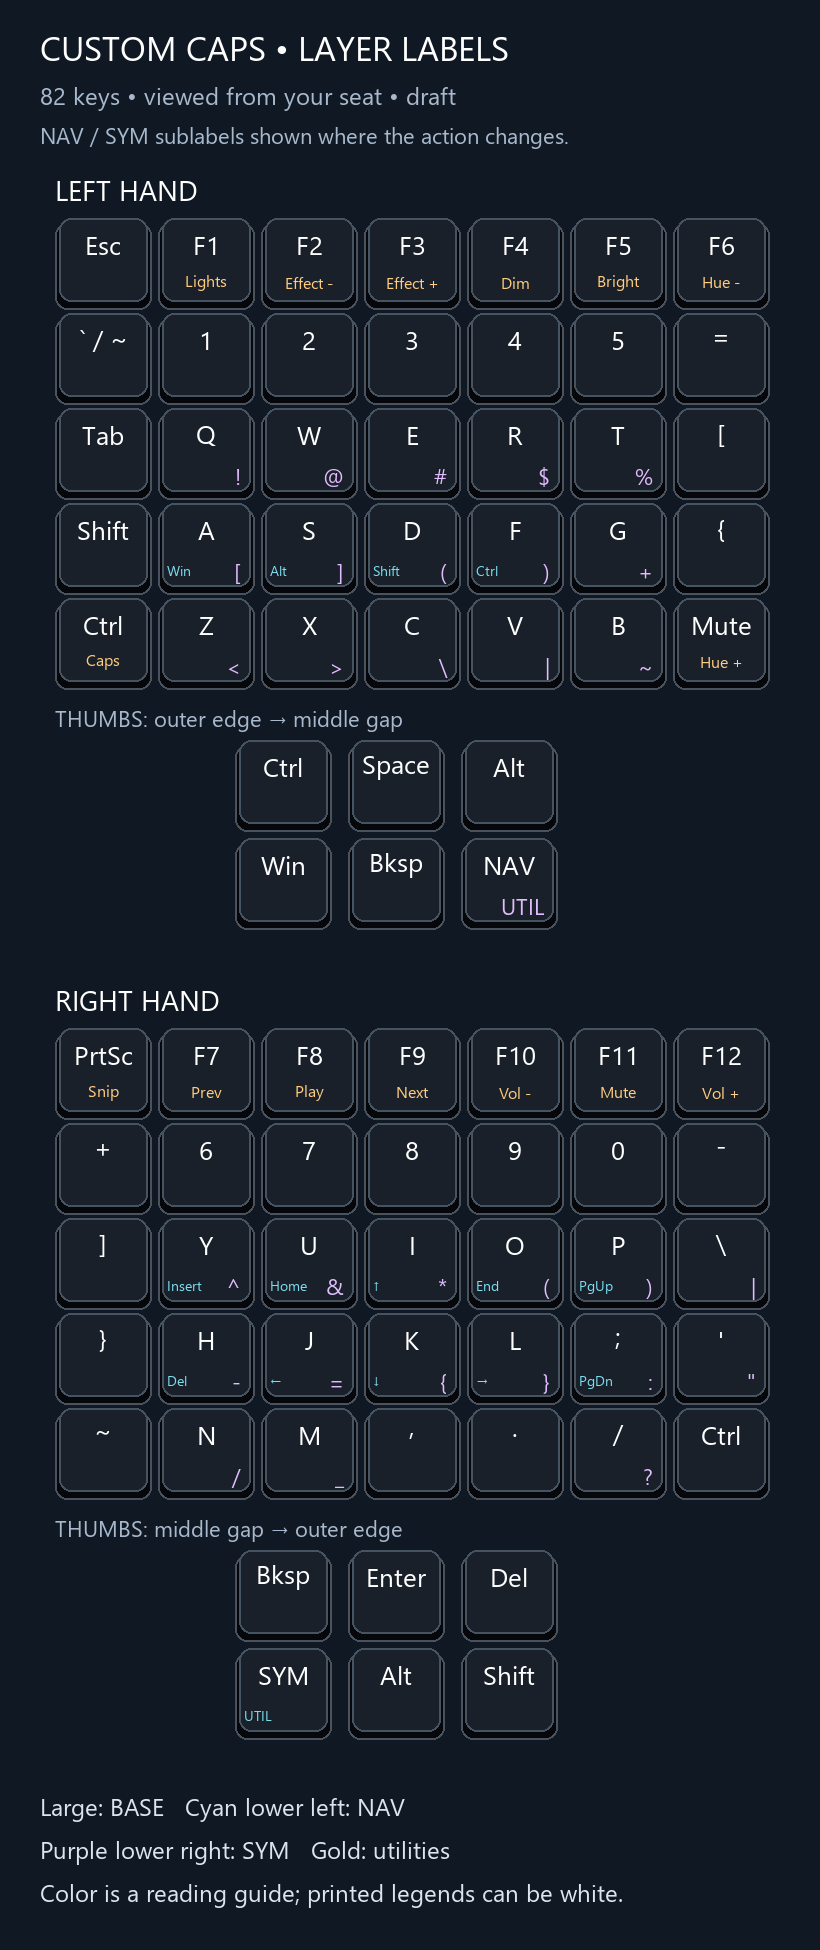
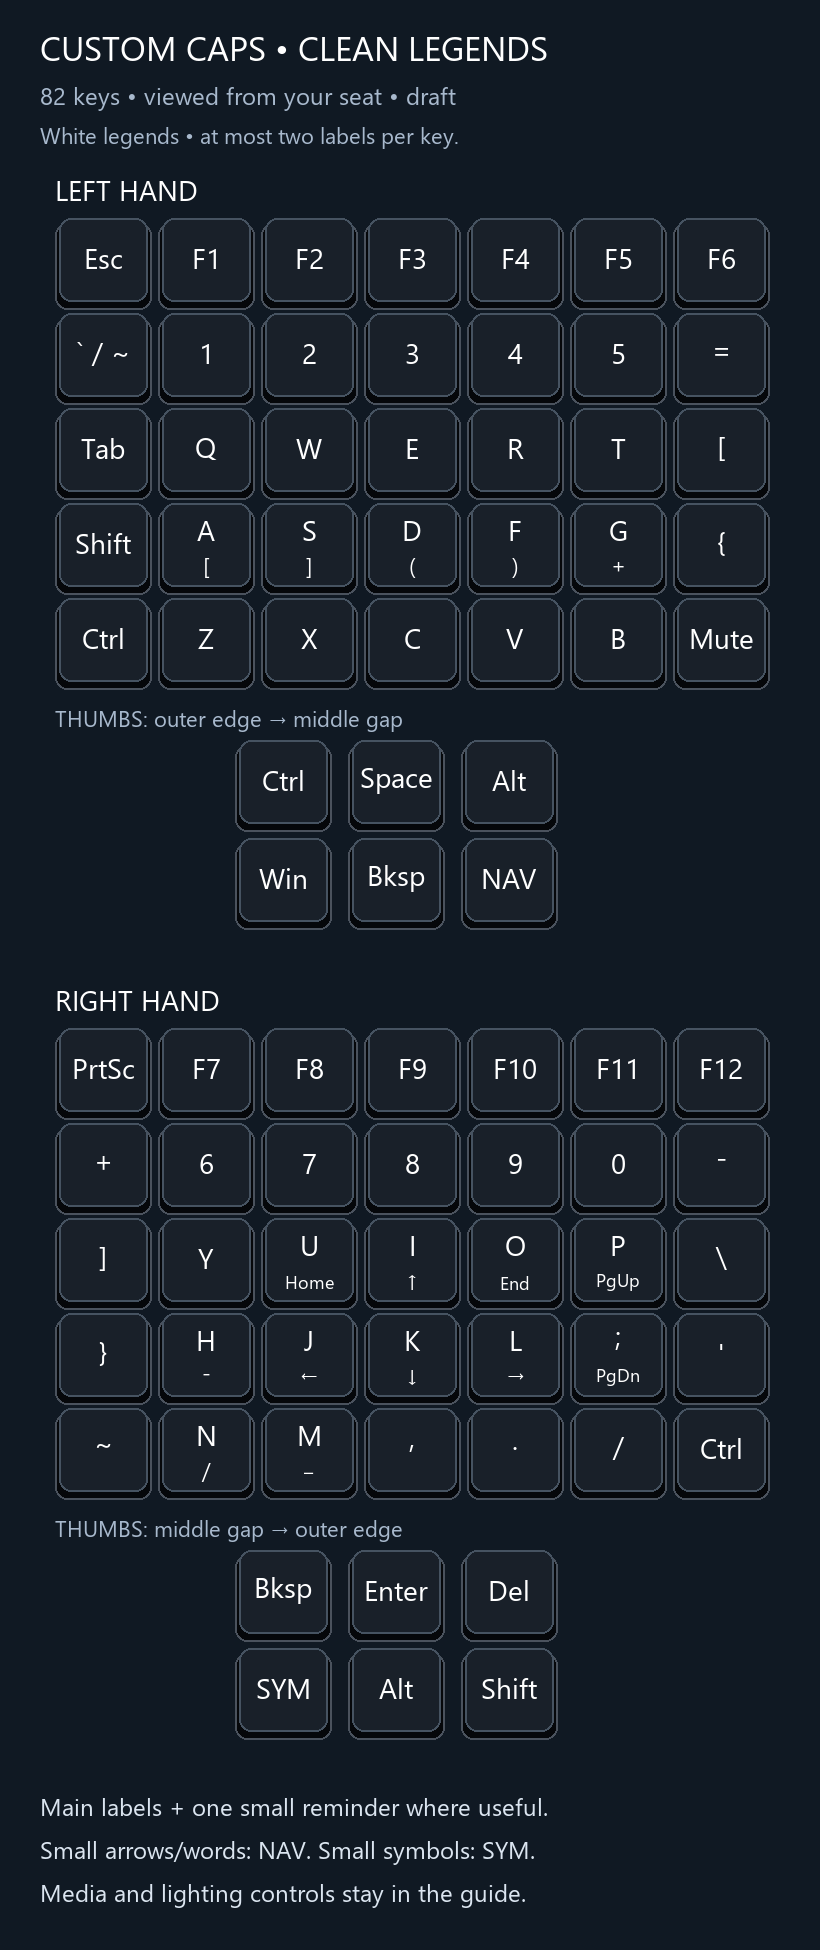
Use Normal NAV SYM only and simplify printed legends

diff --git a/README.md b/README.md
@@ -8,12 +8,31 @@ The October 22, 2026 research revision balances programming comfort, familiar QW
 
 - The left thumb cluster's top row is **Ctrl / Space / Alt**, from the outer edge toward the middle gap. All three are ordinary dedicated keys, as requested; simultaneous use is not required. Exactly two base Shifts remain: beside A and on the right thumb. Additional Ctrl keys are beside Z and on the right pinky. Win stays on a dedicated left thumb key.
 - WASD, modifiers, and Space are immediate ordinary keys. There are no mod-taps, layer-taps, sticky modifiers, tap dances, or active letter combos. Normal Ctrl+Z/X/C/V/S/F shortcuts work on the base layer; duplicate NAV macros have been removed.
-- [NAV](layouts/vial/layered-draft/nav.png): hold the left NAV thumb key. I/J/K/L are Up/Left/Down/Right; U/O are Home/End. While NAV is held, A/S/D/F become plain Win/Alt/Shift/Ctrl. For example, NAV+F+J is Ctrl+Left, and adding D selects the previous word. Thumb Backspace/Delete retain their normal functions; adding Ctrl deletes words. These layer modifiers have no tap/hold timing and do not change base letters.
+- [NAV](layouts/vial/layered-draft/nav.png): hold the left NAV thumb key. I/J/K/L are Up/Left/Down/Right; U/O are Home/End. NAV also provides media on F7–F12, lighting on F1–F3, Caps Lock on Esc, and region screenshot on PrtSc. There is no separate UTIL layer or two-thumb activation. While NAV is held, A/S/D/F become plain Win/Alt/Shift/Ctrl. For example, NAV+F+J is Ctrl+Left, and adding D selects the previous word. These extra modifier positions are optional to learn; ordinary base modifiers remain available. Thumb Backspace/Delete retain their normal functions; adding Ctrl deletes words. These layer modifiers have no tap/hold timing and do not change base letters.
 - [SYM](layouts/vial/layered-draft/sym.png): hold the right SYM thumb key. QWERT and YUIOP retain `! @ # $ %` and `^ & * ( )` in number-row order. Home-row pairs are A/S = `[]`, D/F = `()`, K/L = `{}`. J is `=`, G is `+`, H is `-`, and M is `_`. Comma/period keep their base positions. Backtick stays beside 1; the normal US Shift symbols remain available.
-- [Utilities](layouts/vial/layered-draft/util.png): hold both thumb keys in either order. F1–F6 control lighting; F7–F12 control media and volume. Mute becomes Hue+, PrtSc becomes Windows region screenshot (`Win+Shift+S`), and the pinky Ctrl becomes Caps Lock. Other keys retain base actions regardless of thumb press order.
-- Cap draft: large base legend, NAV at the lower left, SYM at the lower right. Utility labels sit on the function row, PrtSc, Mute, and pinky Ctrl. Image colors explain the layers; printed legends can all be white. The fifth firmware layer is unused.
+- Three usable layers total: **Normal, NAV, SYM**. The firmware still has five saved slots; the last two are blank and unreachable. Pressing both layer keys does not activate another mode. SYM takes priority where both layers have a mapping, and each key releases its own layer independently.
+- Clean cap draft: large white base legends, with at most one small white reminder. Navigation appears on U/I/O/P/J/K/L/semicolon, and useful symbol reminders on A/S/D/F/G/H/N/M. Media, lighting, and optional NAV modifiers stay in the guide. The CSV's `NAV action` and `SYM action` columns document all functions; `Secondary legend` and `Secondary layer` specify what is actually printed.
 
-**Status:** all 410 populated bindings passed offline Vial parsing. Checks also cover two base Shifts, unchanged alphanumerics, standard US punctuation, unused timing/combination features, usable modifiers, and both thumb press/release orders. This draft has not been written to or physically tested on the keyboard. General key reach and cap font/spacing still need checking before ordering printed caps.
+**Status:** all 410 populated bindings passed offline Vial parsing. Checks also cover three reachable layers, core editing/function keys, two base Shifts, unchanged alphanumerics, standard US punctuation, unused timing/combination features, printed navigation legends, and independent layer-key releases in both orders. This draft has not been written to or physically tested on the keyboard. General key reach and cap font/spacing still need checking before ordering printed caps.
+
+### Where the standard keys are
+
+| Function | Keys |
+| --- | --- |
+| Print Screen | Direct key: first key on the right half's top row, before F7 |
+| Region screenshot | NAV + PrtSc sends Win+Shift+S |
+| Arrows | NAV + I/J/K/L = Up/Left/Down/Right |
+| Home / End | NAV + U/O |
+| Page Up / Page Down | NAV + P/semicolon |
+| Insert / Delete | NAV + Y/H; Delete also has a direct right thumb key |
+| Caps Lock | NAV + Esc |
+| Escape / Tab / F1–F12 | Direct base keys |
+| Backspace / Enter | Direct thumb keys |
+| Previous / Play-pause / Next | NAV + F7/F8/F9 |
+| Volume down / Mute / Volume up | NAV + F10/F11/F12; Mute also has a direct base key |
+| Lights on-off / Dimmer / Brighter | NAV + F1/F2/F3 |
+
+Ordinary Ctrl, Shift, Alt and Win shortcuts still use their base keys. The current draft does not assign the less-used Scroll Lock, Pause/Break, application-menu key, or a dedicated numeric keypad. Those can be added if actually needed; they are not printed on the caps.
 
 To load, connect the halves as usual and plug the PC cable into the right half's upper USB port. Save a backup in Vial, confirm the matching keyboard, then choose **File → Load saved layout** and select `layered-draft/qwerty-layered-draft.vil`. Loading writes the configuration to the keyboard. Check typing, modifiers, navigation, symbols, and both layer keys on the hardware.
 
